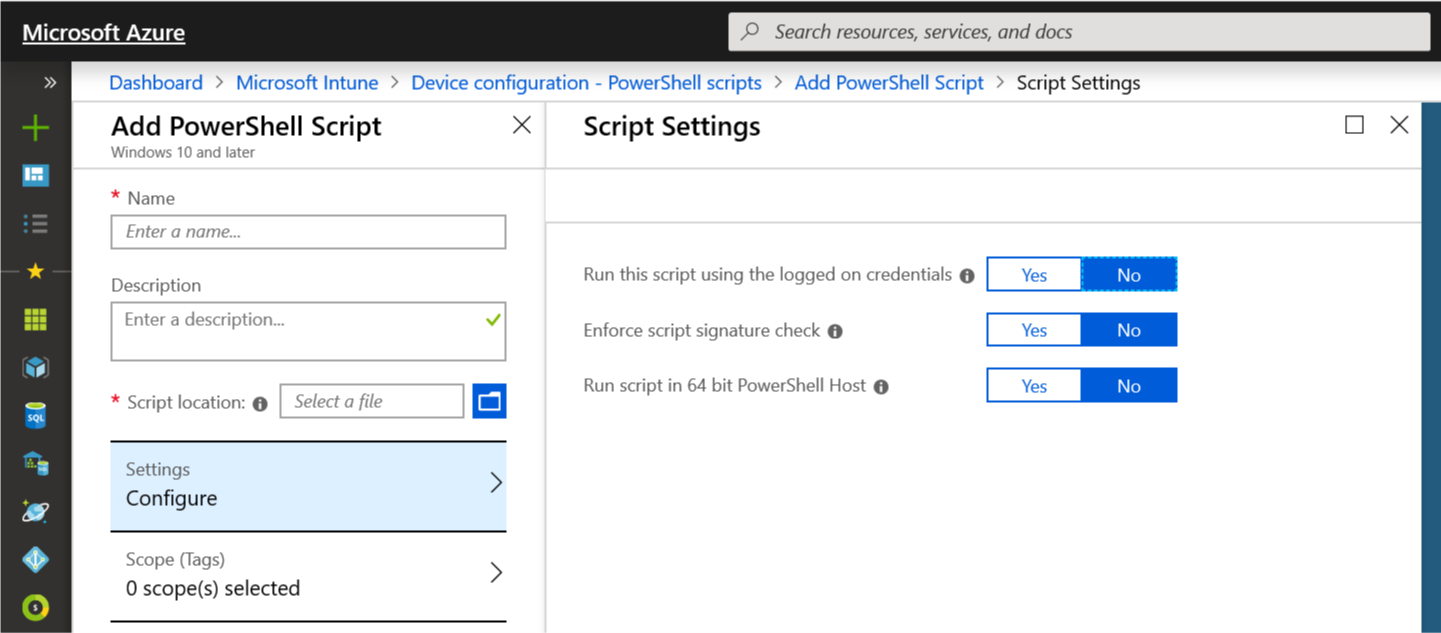
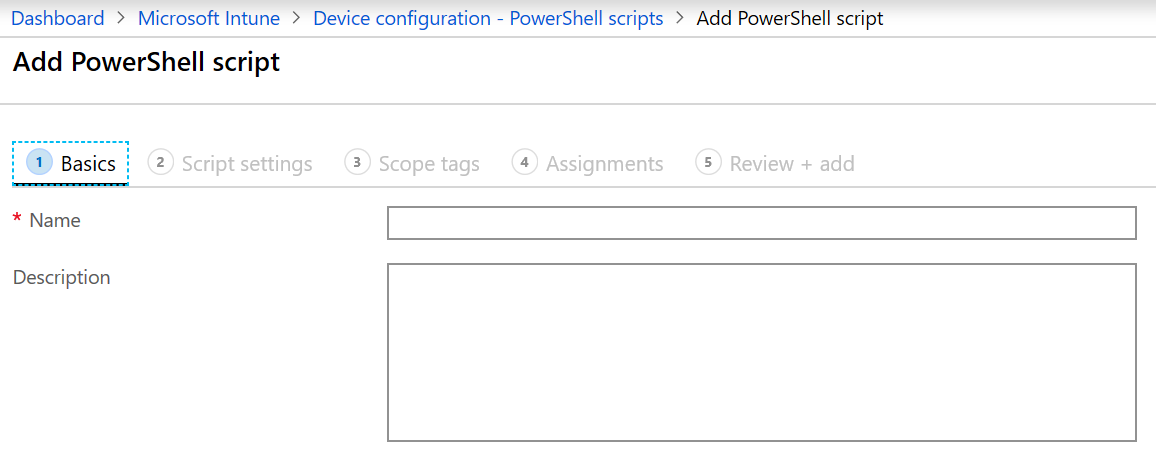
1907

Changed region(s): [[0.0, 0.0, 1.0, 1.0], [0.4048, 0.5895, 0.6228, 0.6189]]

diff --git a/intune/intune-management-extension.md b/intune/intune-management-extension.md
@@ -7,7 +7,7 @@ keywords:
 author: MandiOhlinger
 ms.author: mandia
 manager: dougeby
-ms.date: 06/20/2019
+ms.date: 06/27/2019
 ms.topic: conceptual
 ms.service: microsoft-intune
 ms.localizationpriority: high
@@ -41,11 +41,11 @@ End-user computing is going through a digital transformation. Classic, tradition
 
 MDM services, such as Microsoft Intune, can manage mobile and desktop devices running Windows 10. The built-in Windows 10 management client communicates with Intune to run enterprise management tasks. There are some tasks that you might need, such as advanced device configuration and troubleshooting. For Win32 app management, you can use the [Win32 app management](apps-win32-app-management.md) feature on your Windows 10 devices.
 
-The Intune management extension supplements the in-box Windows 10 MDM features. You can create PowerShell scripts to run on the Windows 10 devices. For example, you can create a PowerShell script that does advanced device configurations, uploads the script to Intune, assigns the script to an Azure Active Directory (AD) group, and runs the script. You can then monitor the run status of the script from start to finish.
+The Intune management extension supplements the in-box Windows 10 MDM features. You can create PowerShell scripts to run on Windows 10 devices. For example, create a PowerShell script that does advanced device configurations. Then, upload the script to Intune, assign the script to an Azure Active Directory (AD) group, and run the script. You can then monitor the run status of the script from start to finish.
 
 ## Prerequisites
 
-The Intune management extension has the following prerequisites. Once these are met, the Intune management extension is installed automatically when a PowerShell script or Win32 app is assigned to the user or device.
+The Intune management extension has the following prerequisites. Once the prerequisites are met, the Intune management extension installs automatically when a PowerShell script or Win32 app is assigned to the user or device.
 
 - Devices running Windows 10 version 1607 or later. If the device is enrolled using [bulk auto-enrollment](windows-bulk-enroll.md), devices must run Windows 10 version 1703 or later. The Intune management extension isn't supported on Windows 10 in S mode, as S mode doesn't allow running non-store apps. 
   
@@ -65,7 +65,7 @@ The Intune management extension has the following prerequisites. Once these are 
     
     - User signs in to the device using their Azure AD account, and then enrolls in Intune.
 
-  - Co-managed devices that use Configuration Manager and Intune. Be sure the **Client Apps** workload is set to **Pilot Intune** or **Intune**. See the following for guidance: 
+  - Co-managed devices that use Configuration Manager and Intune. Be sure the **Client Apps** workload is set to **Pilot Intune** or **Intune**. See the following articles for guidance: 
   
     - [What is co-management](https://docs.microsoft.com/sccm/comanage/overview) 
     - [Client apps workload](https://docs.microsoft.com/sccm/comanage/workloads#client-apps)
@@ -74,15 +74,18 @@ The Intune management extension has the following prerequisites. Once these are 
 > [!TIP]
 > Be sure devices are [joined](https://docs.microsoft.com/azure/active-directory/user-help/user-help-join-device-on-network) to Azure AD. Devices that are only [registered](https://docs.microsoft.com/azure/active-directory/user-help/user-help-register-device-on-network) in Azure AD won't receive your scripts.
 
-## Create a script policy 
+## Create a script policy and assign it
 
 1. Sign in to [Intune](https://go.microsoft.com/fwlink/?linkid=2090973).
 2. Select **Device configuration** > **PowerShell scripts** > **Add**.
-3. Enter the following properties:
+
+    ![Add and use PowerShell scripts in Microsoft Intune](./media/mgmt-extension-add-script.png)
+
+3. In **Basics**, enter the following properties, and select **Next**:
     - **Name**: Enter a name for the PowerShell script. 
-    - **Description**: Enter a description for the PowerShell script. This setting is optional, but recommended. 
+    - **Description**: Enter a description for the PowerShell script. This setting is optional, but recommended.
+4. In **Script settings**, enter the following properties, and select **Next**:
     - **Script location**: Browse to the PowerShell script. The script must be less than 200 KB (ASCII).
-4. Choose **Configure**, and enter the following properties:
     - **Run this script using the logged on credentials**: Select **Yes** to run the script with the user's credentials on the device. Choose **No** (default) to run the script in the system context. Many administrators choose **Yes**. If the script is required to run in the system context, choose **No**.
     - **Enforce script signature check**: Select **Yes** if the script must be signed by a trusted publisher. Select **No** (default) if there isn't a requirement for the script to be signed. 
     - **Run script in 64-bit PowerShell host**: Select **Yes** to run the script in a 64-bit PowerShell (PS) host on a 64-bit client architecture. Select **No** (default) runs the script in a 32-bit PowerShell host.
@@ -94,26 +97,34 @@ The Intune management extension has the following prerequisites. Once these are 
       | No | 32-bit  | 32-bit PS host supported | Runs only in 32-bit PS host, which works on 32-bit and 64-bit architectures. |
       | Yes | 64-bit | Runs script in 64-bit PS host for 64-bit architectures. When ran on 32-bit, the script runs in a 32-bit PS host. | Runs script in 32-bit PS host. If this setting changes to 64-bit, the script opens (it doesn't run) in a 64-bit PS host, and reports the results. When ran on 32-bit, the script runs in 32-bit PS host. |
 
-    ![Add and use PowerShell scripts in Microsoft Intune](./media/mgmt-extension-add-script.png)
-5. Select **OK** > **Create** to save the script.
+5. Select **Scope tags**. Scope tags are optional. [Use role-based access control (RBAC) and scope tags for distributed IT](scope-tags.md) has more information.
 
-> [!NOTE]
-> When scripts are set to user context and the end user has administrator rights, by default, the PowerShell script runs under the administrator privilege.
+    To add a scope tag:
 
-## Assign the policy
+    1. Choose **Select scope tags** > select an existing scope tag from the list > **Select**.
 
-1. In **PowerShell scripts**, select the script to assign, and then choose **Manage** > **Assignments**.
+    2. When finished, select **Next**.
 
-    ![Assign or deploy PowerShell script to device groups in Microsoft Intune](./media/mgmt-extension-assignments.png)
+6. Select **Assignments** > **Select groups to include**. An existing list of Azure AD groups is shown.
 
-2. Choose **Select Groups** to list available Azure AD groups. 
-3. Select one or more groups that include the users whose devices receive the script. **Select** to assign the policy to the selected groups.
+    1. Select one or more groups that include the users whose devices receive the script. Choose **Select**. The groups you chose are shown in the list, and will receive your policy.
 
-> [!NOTE]
-> - End users aren't required to sign in to the device to execute PowerShell scripts.
-> - PowerShell scripts in Intune can be targeted to Azure AD device security groups or Azure AD user security groups.
+        > [!NOTE]
+        > PowerShell scripts in Intune can be targeted to Azure AD device security groups or Azure AD user security groups.
 
-The Intune management extension client checks once every hour and after every reboot with Intune for any new scripts or changes. After you assign the policy to the Azure AD groups, the PowerShell script runs, and the run results are reported. Once the script executes, it doesn't execute again unless there's a change in the script or policy.
+    2. Select **Next**.
+
+        ![Assign or deploy PowerShell script to device groups in Microsoft Intune](./media/mgmt-extension-assignments.png)
+
+7. In **Review + add**, a summary is shown of the settings you configured. Select **Add** to save the script. When you select **Add**, the policy is deployed to the groups you chose.
+
+## Important considerations
+
+- When scripts are set to user context and the end user has administrator rights, by default, the PowerShell script runs under the administrator privilege.
+
+- End users aren't required to sign in to the device to execute PowerShell scripts.
+
+- The Intune management extension client checks with Intune once every hour and after every reboot for any new scripts or changes. After you assign the policy to the Azure AD groups, the PowerShell script runs, and the run results are reported. Once the script executes, it doesn't execute again unless there's a change in the script or policy.
 
 ## Monitor run status
 
@@ -124,7 +135,7 @@ In **PowerShell scripts**, select the script to monitor, choose **Monitor**, and
 - **Device status**
 - **User status**
 
-## Troubleshoot scripts
+## Intune management extension logs
 
 Agent logs on the client machine are typically in `\ProgramData\Microsoft\IntuneManagementExtension\Logs`. You can use [CMTrace.exe](https://docs.microsoft.com/sccm/core/support/tools) to view these log files. 
 
@@ -174,7 +185,7 @@ To see if the device is auto-enrolled, you can:
 - Review the logs for any errors. See [troubleshoot scripts](#troubleshoot-scripts) (in this article).
 - For possible permission issues, be sure the properties of the PowerShell script are set to `Run this script using the logged on credentials`. Also check that the signed in user has the appropriate permissions to run the script.
 
-- To isolate scripting problems, do the following:
+- To isolate scripting problems, do the following steps:
 
   - Review the PowerShell execution configuration on your devices. See the [PowerShell execution policy](https://docs.microsoft.com/powershell/module/microsoft.powershell.security/set-executionpolicy?view=powershell-6) for guidance.
   - Run a sample script using the Intune management extension. For example, create the `C:\Scripts` directory, and give everyone full control. Run the following script:
